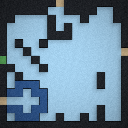
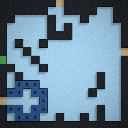
fixes

diff --git a/environments/mazebench/mazebench/runtime/public/author.js b/environments/mazebench/mazebench/runtime/public/author.js
@@ -7186,8 +7186,7 @@
       revealEditorWorld();
     }, 6000);
 
-    // Publish-time hero: the page's publish flow calls this to compose the
-    // social card from a true 3D render of the world's start room.
+    // Publish-time hero: hosts can call this for a clean 3D whole-world image.
     window.__MAZEBENCH_RENDER_WORLD_HERO__ = (options) =>
       renderWorldHeroCardDataUrl(options || {});
   }
@@ -7231,9 +7230,8 @@
   }
 
   // Renders the saved (canonical) world at card size on a throwaway app —
-  // the WHOLE stitched world when possible, otherwise the start room — then
-  // composes the neon title treatment over it. Returned as a 1200x630 PNG
-  // data URL, the standard social-card aspect.
+  // the WHOLE stitched world when possible, otherwise the start room. The
+  // capture is image-only: no player, title, or metadata is baked into it.
   async function renderWorldHeroCardDataUrl(options) {
     const meta = authorData.worldMeta;
     if (!meta) {
@@ -7275,6 +7273,9 @@
       levelLabel: meta.title || "World",
       width: board.width
     });
+    playData.actors = (playData.actors || []).filter(
+      (actor) => actor?.type !== "player" && actor?.type !== "circle_player"
+    );
     const app = createAuxiliaryRenderApp(sceneCanvas, playData);
     if (!app) {
       return null;
@@ -7292,8 +7293,8 @@
       }
       app.threeRenderer?.setDebugCameraView?.({
         yaw: 0,
-        tilt: 0.85,
-        zoom: 1.1,
+        tilt: 0.42,
+        zoom: Math.max(0.55, Math.min(1.4, Number(meta.width || 1) / Math.max(1, Number(meta.height || 1)))),
         mode: "perspective",
         skipRender: true
       });
@@ -7318,29 +7319,6 @@
         (card.height - drawHeight) / 2,
         drawWidth,
         drawHeight
-      );
-      // Bottom gradient + neon title treatment.
-      const gradient = context.createLinearGradient(0, card.height * 0.45, 0, card.height);
-      gradient.addColorStop(0, "rgba(5, 6, 14, 0)");
-      gradient.addColorStop(1, "rgba(5, 6, 14, 0.92)");
-      context.fillStyle = gradient;
-      context.fillRect(0, 0, card.width, card.height);
-      const title = String(options.title || meta.title || "Maze Bench World").toUpperCase();
-      context.textBaseline = "alphabetic";
-      context.shadowColor = "rgba(111, 220, 255, 0.85)";
-      context.shadowBlur = 26;
-      context.fillStyle = "#eaffff";
-      context.font = "700 64px Orbitron, Inter, system-ui, sans-serif";
-      context.fillText(title, 56, card.height - 96, card.width - 112);
-      context.shadowBlur = 0;
-      context.fillStyle = "rgba(231, 234, 255, 0.75)";
-      context.font = "500 26px 'Space Mono', Menlo, monospace";
-      const gems = Number(options.gems || 0);
-      context.fillText(
-        (gems > 0 ? gems + " GEMS · " : "") + "PLAY IT ON MAZEBENCH.COM",
-        58,
-        card.height - 44,
-        card.width - 116
       );
       return card.toDataURL("image/png");
     } finally {

diff --git a/public/author.js b/public/author.js
@@ -7186,8 +7186,7 @@
       revealEditorWorld();
     }, 6000);
 
-    // Publish-time hero: the page's publish flow calls this to compose the
-    // social card from a true 3D render of the world's start room.
+    // Publish-time hero: hosts can call this for a clean 3D whole-world image.
     window.__MAZEBENCH_RENDER_WORLD_HERO__ = (options) =>
       renderWorldHeroCardDataUrl(options || {});
   }
@@ -7231,9 +7230,8 @@
   }
 
   // Renders the saved (canonical) world at card size on a throwaway app —
-  // the WHOLE stitched world when possible, otherwise the start room — then
-  // composes the neon title treatment over it. Returned as a 1200x630 PNG
-  // data URL, the standard social-card aspect.
+  // the WHOLE stitched world when possible, otherwise the start room. The
+  // capture is image-only: no player, title, or metadata is baked into it.
   async function renderWorldHeroCardDataUrl(options) {
     const meta = authorData.worldMeta;
     if (!meta) {
@@ -7275,6 +7273,9 @@
       levelLabel: meta.title || "World",
       width: board.width
     });
+    playData.actors = (playData.actors || []).filter(
+      (actor) => actor?.type !== "player" && actor?.type !== "circle_player"
+    );
     const app = createAuxiliaryRenderApp(sceneCanvas, playData);
     if (!app) {
       return null;
@@ -7292,8 +7293,8 @@
       }
       app.threeRenderer?.setDebugCameraView?.({
         yaw: 0,
-        tilt: 0.85,
-        zoom: 1.1,
+        tilt: 0.42,
+        zoom: Math.max(0.55, Math.min(1.4, Number(meta.width || 1) / Math.max(1, Number(meta.height || 1)))),
         mode: "perspective",
         skipRender: true
       });
@@ -7318,29 +7319,6 @@
         (card.height - drawHeight) / 2,
         drawWidth,
         drawHeight
-      );
-      // Bottom gradient + neon title treatment.
-      const gradient = context.createLinearGradient(0, card.height * 0.45, 0, card.height);
-      gradient.addColorStop(0, "rgba(5, 6, 14, 0)");
-      gradient.addColorStop(1, "rgba(5, 6, 14, 0.92)");
-      context.fillStyle = gradient;
-      context.fillRect(0, 0, card.width, card.height);
-      const title = String(options.title || meta.title || "Maze Bench World").toUpperCase();
-      context.textBaseline = "alphabetic";
-      context.shadowColor = "rgba(111, 220, 255, 0.85)";
-      context.shadowBlur = 26;
-      context.fillStyle = "#eaffff";
-      context.font = "700 64px Orbitron, Inter, system-ui, sans-serif";
-      context.fillText(title, 56, card.height - 96, card.width - 112);
-      context.shadowBlur = 0;
-      context.fillStyle = "rgba(231, 234, 255, 0.75)";
-      context.font = "500 26px 'Space Mono', Menlo, monospace";
-      const gems = Number(options.gems || 0);
-      context.fillText(
-        (gems > 0 ? gems + " GEMS · " : "") + "PLAY IT ON MAZEBENCH.COM",
-        58,
-        card.height - 44,
-        card.width - 116
       );
       return card.toDataURL("image/png");
     } finally {

diff --git a/tests/author-inventory.test.js b/tests/author-inventory.test.js
@@ -57,6 +57,16 @@ const thumbnailUploadSection = sourceSection(
 assert.match(thumbnailUploadSection, /authorData\.previewApiBaseUrl/);
 assert.match(thumbnailUploadSection, /method: "POST"/);
 
+const socialCardSection = sourceSection(
+  "async function renderWorldHeroCardDataUrl",
+  'window.addEventListener("pagehide"'
+);
+assert.match(socialCardSection, /actor\?\.type !== "player"/);
+assert.match(socialCardSection, /actor\?\.type !== "circle_player"/);
+assert.match(socialCardSection, /tilt: 0\.42/);
+assert.doesNotMatch(socialCardSection, /fillText/);
+assert.doesNotMatch(socialCardSection, /PLAY IT ON MAZEBENCH/);
+
 const previewSection = sourceSection(
   "function createPalettePreviewPlayData",
   "function renderSelectedTool"